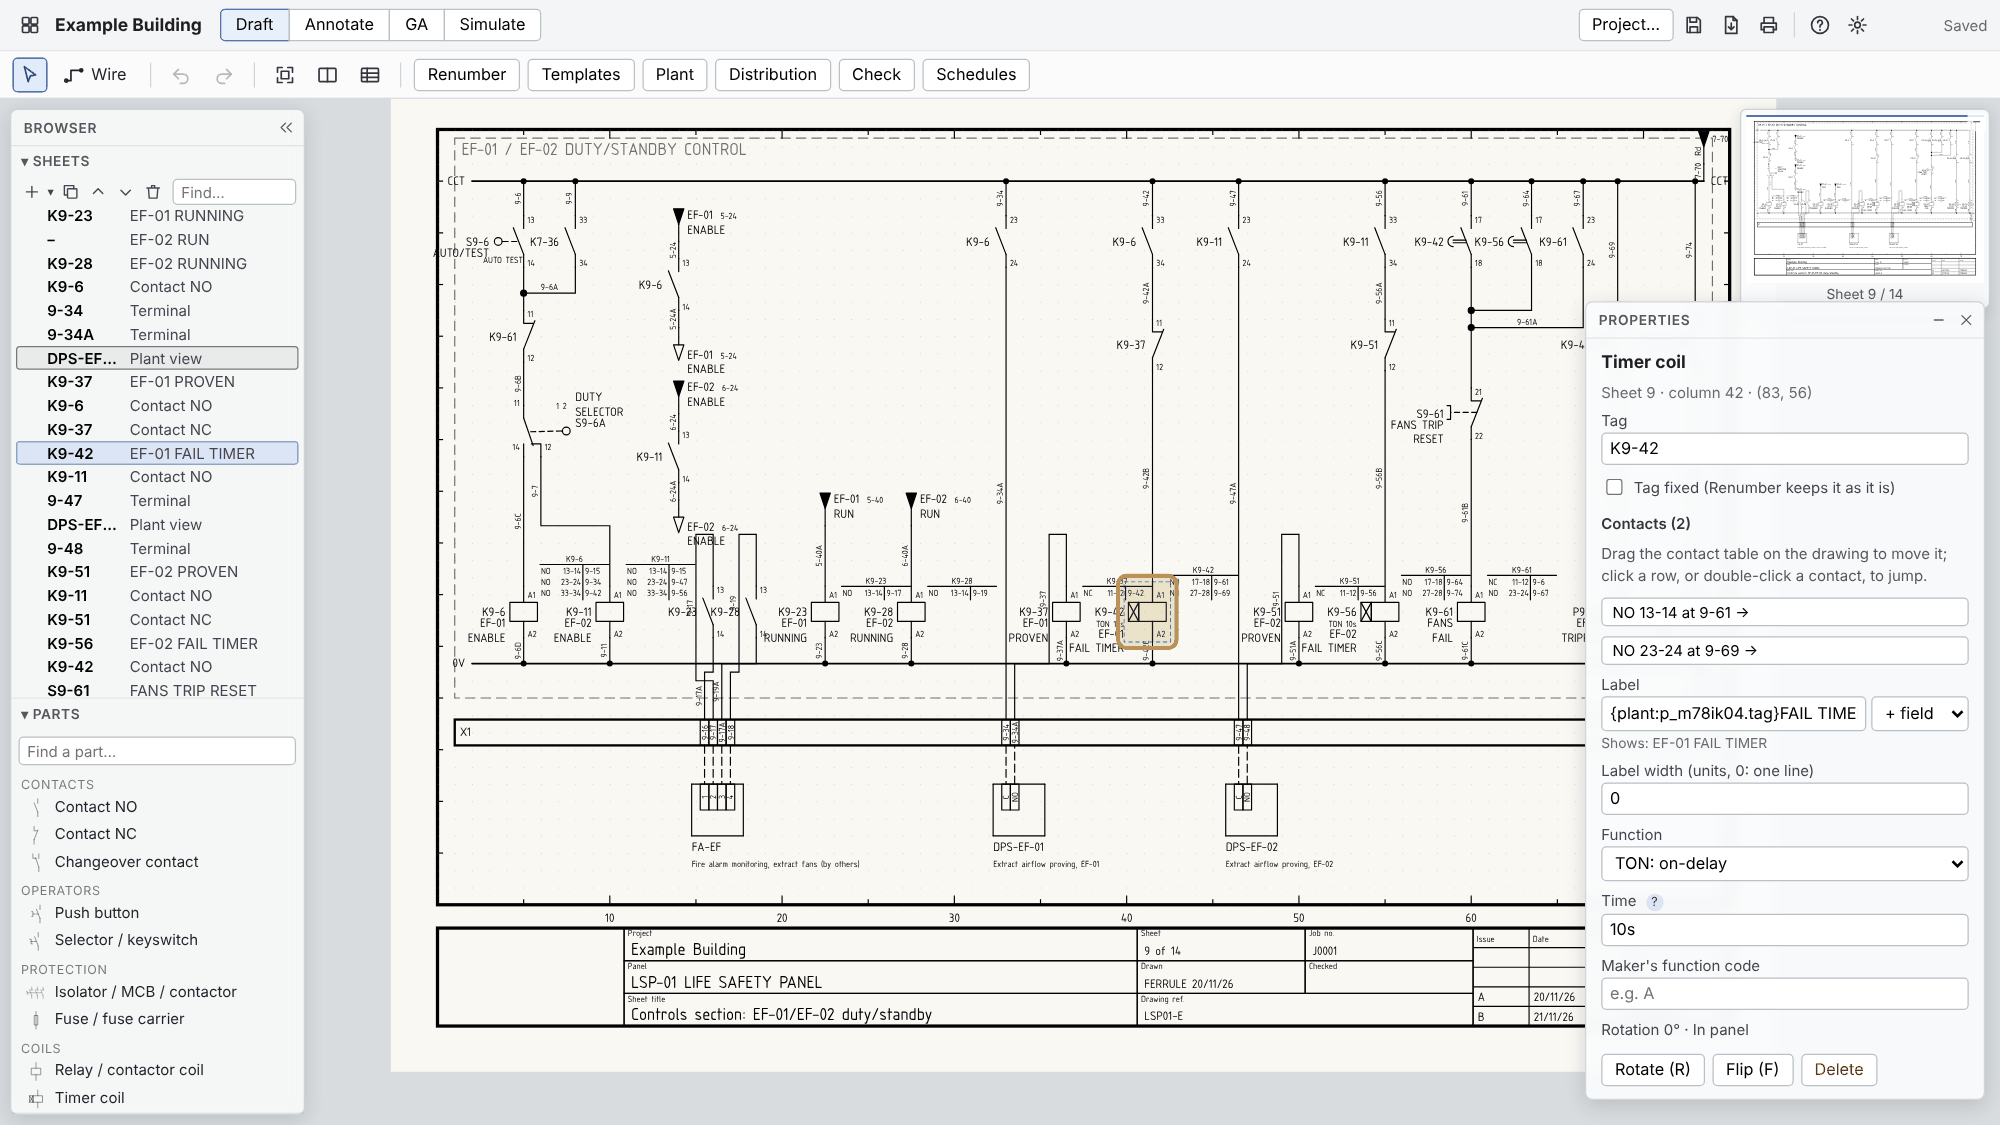
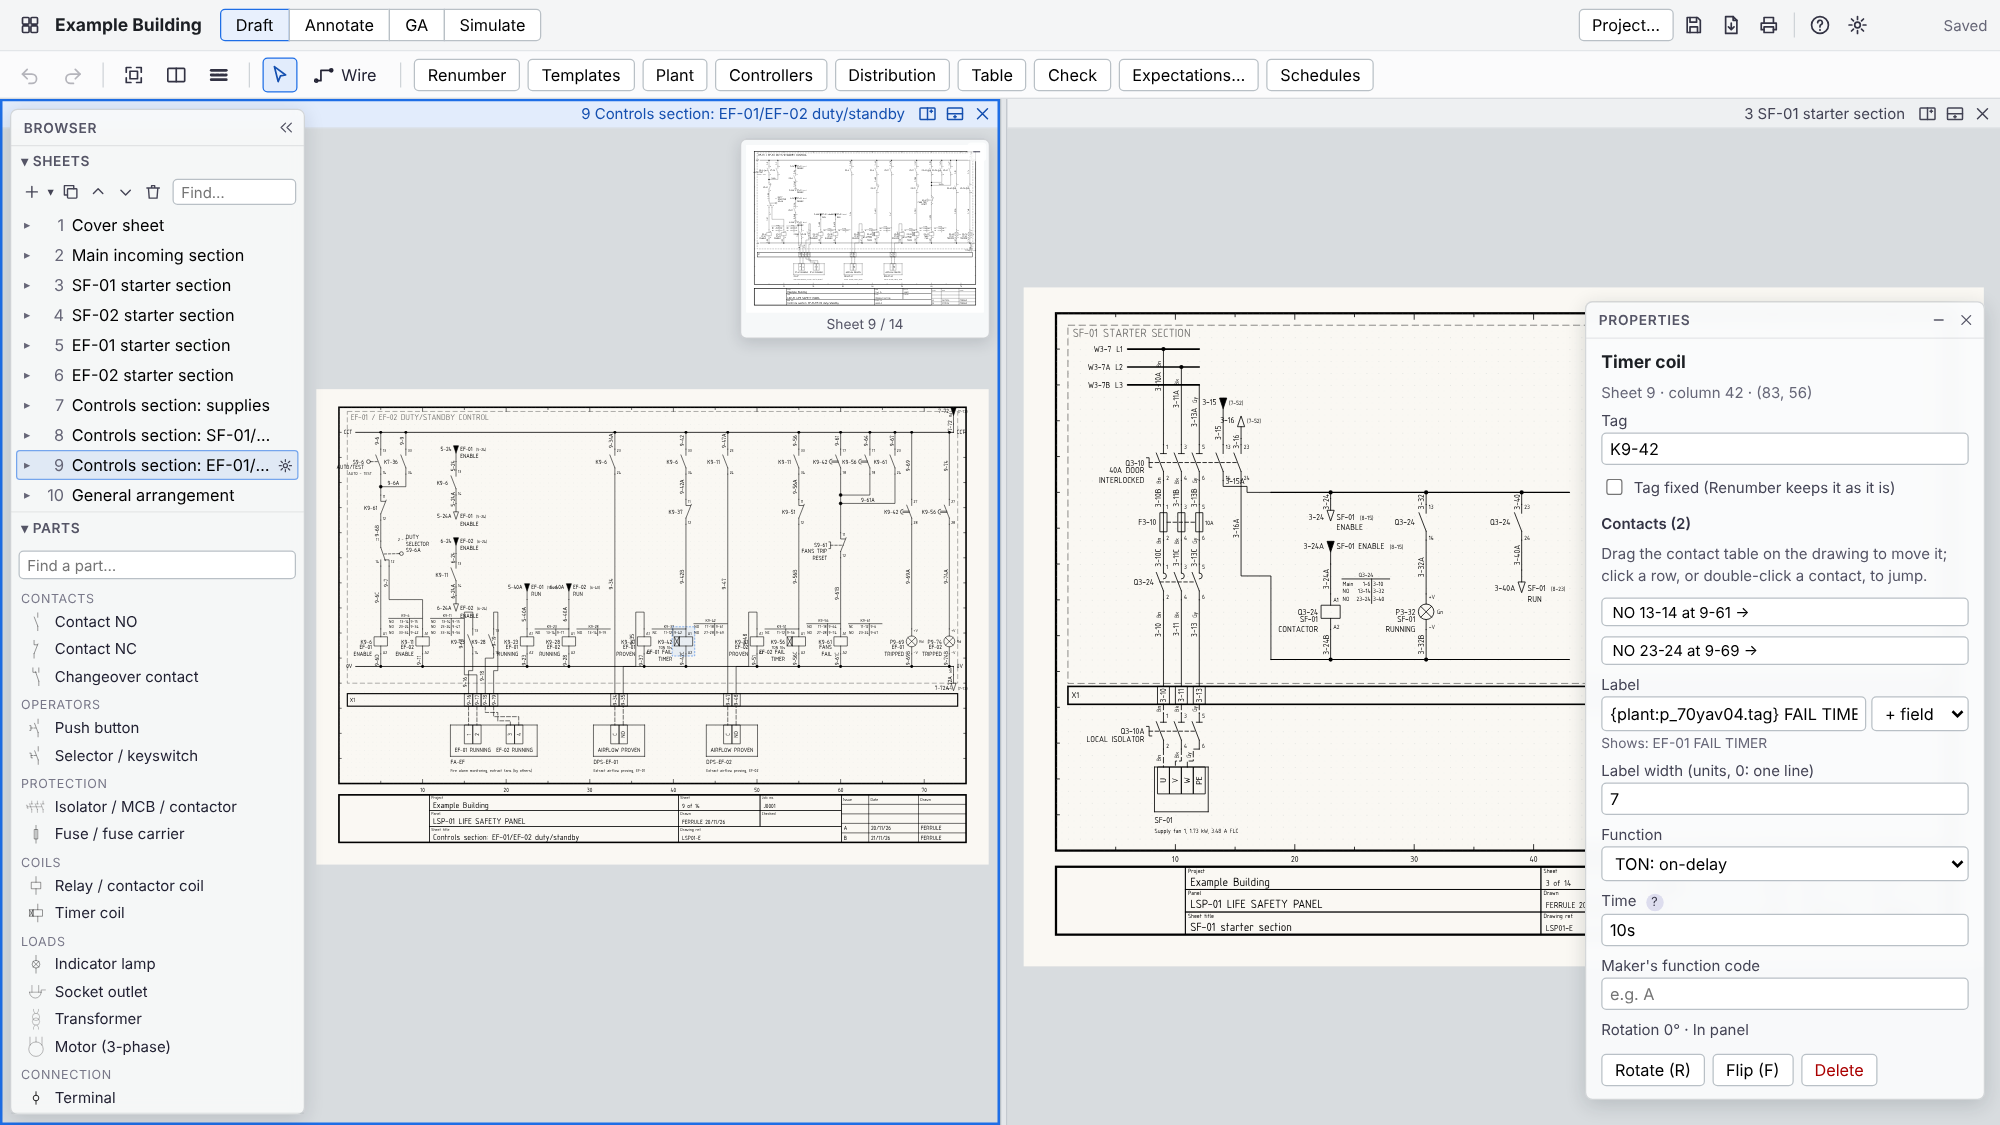
v0.3 step 6c: tidy after tiles (#53)
- Splitting a tile fits its sheet to its new size
- Help mentions tiles and docking
- README drafting and simulating pictures retaken with two tiles

diff --git a/src/web/components/EditorView.svelte b/src/web/components/EditorView.svelte
@@ -142,7 +142,10 @@
 
   /** Split the active tile: the new half, to its right, shows the same sheet. */
   function split() {
-    editor.splitTile(editor.activeTile, "row");
+    const id = editor.activeTile;
+    editor.splitTile(id, "row");
+    // It's narrower now: fit its sheet to it again.
+    setTimeout(() => canvases.get(id)?.fit(), 60);
   }
   let exporting = $state(false);
 
@@ -437,9 +440,10 @@
       <FloatBox title="Help" store="help" top={162} right={344} width={280} onclose={() => (help = false)}>
         <div class="help">
           <p>Pick a part in the browser and click to place it; then it's back to Select (or keep placing until <kbd>Esc</kbd>: Settings). Drag to move, <kbd>R</kbd> rotate, <kbd>Del</kbd> delete, <kbd>Ctrl</kbd>+<kbd>D</kbd> duplicate, arrows nudge.</p>
-          <p>Scroll to zoom, middle-drag or <kbd>Space</kbd>+drag to pan; tap <kbd>Space</kbd> to fit the sheet. <kbd>R</kbd> rotates, <kbd>F</kbd> flips top to bottom. Drag the outline in the overview (top right) to move about.</p>
+          <p>Scroll to zoom, middle-drag or <kbd>Space</kbd>+drag to pan; tap <kbd>Space</kbd> to fit the sheet. <kbd>R</kbd> rotates, <kbd>F</kbd> flips top to bottom. Drag the outline in the overview (top right of the tile you're in) to move about.</p>
           <p><kbd>W</kbd> wire tool: click a terminal, then another; click on a wire to tee into it. <kbd>Esc</kbd> cancels, <kbd>S</kbd> back to select.</p>
           <p><kbd>PgUp</kbd>/<kbd>PgDn</kbd> change sheet. Double-click a contact, coil or link arrow to jump to its partner.</p>
+          <p>Split the drawing into tiles from a tile's bar (split right, split down); click a tile to work in it. Drag a window's title bar onto a tile to put it there, and its tile's bar out to float it again.</p>
           <p><kbd>Ctrl</kbd>+<kbd>Z</kbd> undo, <kbd>Ctrl</kbd>+<kbd>Y</kbd> redo, <kbd>Ctrl</kbd>+<kbd>A</kbd> select all on this workbench. Saving is automatic.</p>
         </div>
       </FloatBox>

diff --git a/src/web/components/Tiles.svelte b/src/web/components/Tiles.svelte
@@ -49,6 +49,14 @@
     };
   });
 
+  /** Split this tile; it's narrower now, so its sheet is fitted to it again. */
+  function split(dir: "row" | "col") {
+    if (node.kind !== "leaf") return;
+    const id = node.id;
+    editor.splitTile(id, dir);
+    setTimeout(() => canvases.get(id)?.fit(), 60);
+  }
+
   const sheetCount = $derived(editor.tiles.kind === "leaf" ? 1 : countSheets(editor.tiles));
   function countSheets(n: TileNode): number {
     return n.kind === "leaf" ? (n.content.type === "sheet" ? 1 : 0) : countSheets(n.a) + countSheets(n.b);
@@ -122,8 +130,8 @@
       }}
     >
       <span class="name" title={name}>{name}</span>
-      <button class="icon" title="Split right: the new tile shows the same sheet" onclick={() => editor.splitTile(node.id, "row")}><Icon name="splitRight" size={16} /></button>
-      <button class="icon" title="Split down: the new tile shows the same sheet" onclick={() => editor.splitTile(node.id, "col")}><Icon name="splitDown" size={16} /></button>
+      <button class="icon" title="Split right: the new tile shows the same sheet" onclick={() => split("row")}><Icon name="splitRight" size={16} /></button>
+      <button class="icon" title="Split down: the new tile shows the same sheet" onclick={() => split("col")}><Icon name="splitDown" size={16} /></button>
       <button
         class="icon"
         title={node.content.type === "sheet" && sheetCount <= 1 ? "The last sheet tile stays open" : "Close this tile"}

diff --git a/README.md b/README.md
@@ -4,7 +4,7 @@
 
 It's one portable `.exe` for Windows: no install, nothing to configure. Your browser is the screen.
 
-![Ferrule drafting a controls sheet: the browser of sheets and parts on the left, the drawing in the middle, the sheet overview and a timer coil's properties on the right](docs/images/editor-draft.png)
+![Ferrule drafting a controls sheet in one tile with a starter sheet in another: the browser of sheets and parts on the left, the active tile outlined with its overview, and a timer coil's properties on the right](docs/images/editor-draft.png)
 
 **[Download the latest release](https://github.com/Cryptdos/ferrule/releases/latest)**: unzip `ferrule.exe` anywhere (e.g. `C:\Temp\eCAD`) and double-click it. Status: **0.1.0 preview**, for feature testing.
 
@@ -22,7 +22,7 @@ Everything above the block is in the panel; everything below is out on site, wit
 
 ### Simulate: try the logic before anyone wires it
 
-![Simulating: live wires and busbars highlighted, energised coils filled, a fail timer counting down, the fire alarm monitoring inputs green because they see what their expectations say, and every plant point listed in the floating panel](docs/images/simulate.png)
+![Simulating in two tiles at once: live wires and rails red on both sheets, the fire alarm monitoring inputs green because they see what their expectations say, and every plant point listed in the floating panel](docs/images/simulate.png)
 
 Click switches, selectors, push buttons and plant outputs on the drawing. Coils pull in, contacts move, lamps glow in their colour, live wires go red and timers count down (TON, TOF, TP and flashers, named as IEC 61131-3). Power comes from the incoming supply, a transformer or plant that supplies power (a UPS, a PSU), phases kept separate. **Expectations** say what the drawing should do, in plain words ("FA-SF SF-01 running should be on when K8-23 is energised", "Never: K8-6 and K8-11 energised"): plant inputs turn green or red as you go, and **Check logic** tries every sequence of operations to find one that breaks an expectation, shorts the supply or makes relays chatter, with a replay.
 

diff --git a/docs/design-v0.3.md b/docs/design-v0.3.md
@@ -213,6 +213,11 @@ Each step is one PR with a build, `ferrule-windows-v0.3.0-pre.zip`. The working 
 - **Prompts** a docked window opens (New plant…, say) float as usual.
 - **Table** in a tile outside Draft says it's for Draft, rather than vanishing from its tile.
 
+**Step 6c (tidying)**
+
+- **Splitting** a tile fits its sheet to its new, smaller size, as the old split did; other tiles keep their zoom.
+- The help has a line on tiles and docking; the README's drafting and simulating pictures are retaken with two tiles. The other pictures (Annotate, GA, controllers) show one view and are left until their workbenches change.
+
 ## 11. Director notes, as written (23/11/26)
 
 **On tiling (§7):**
